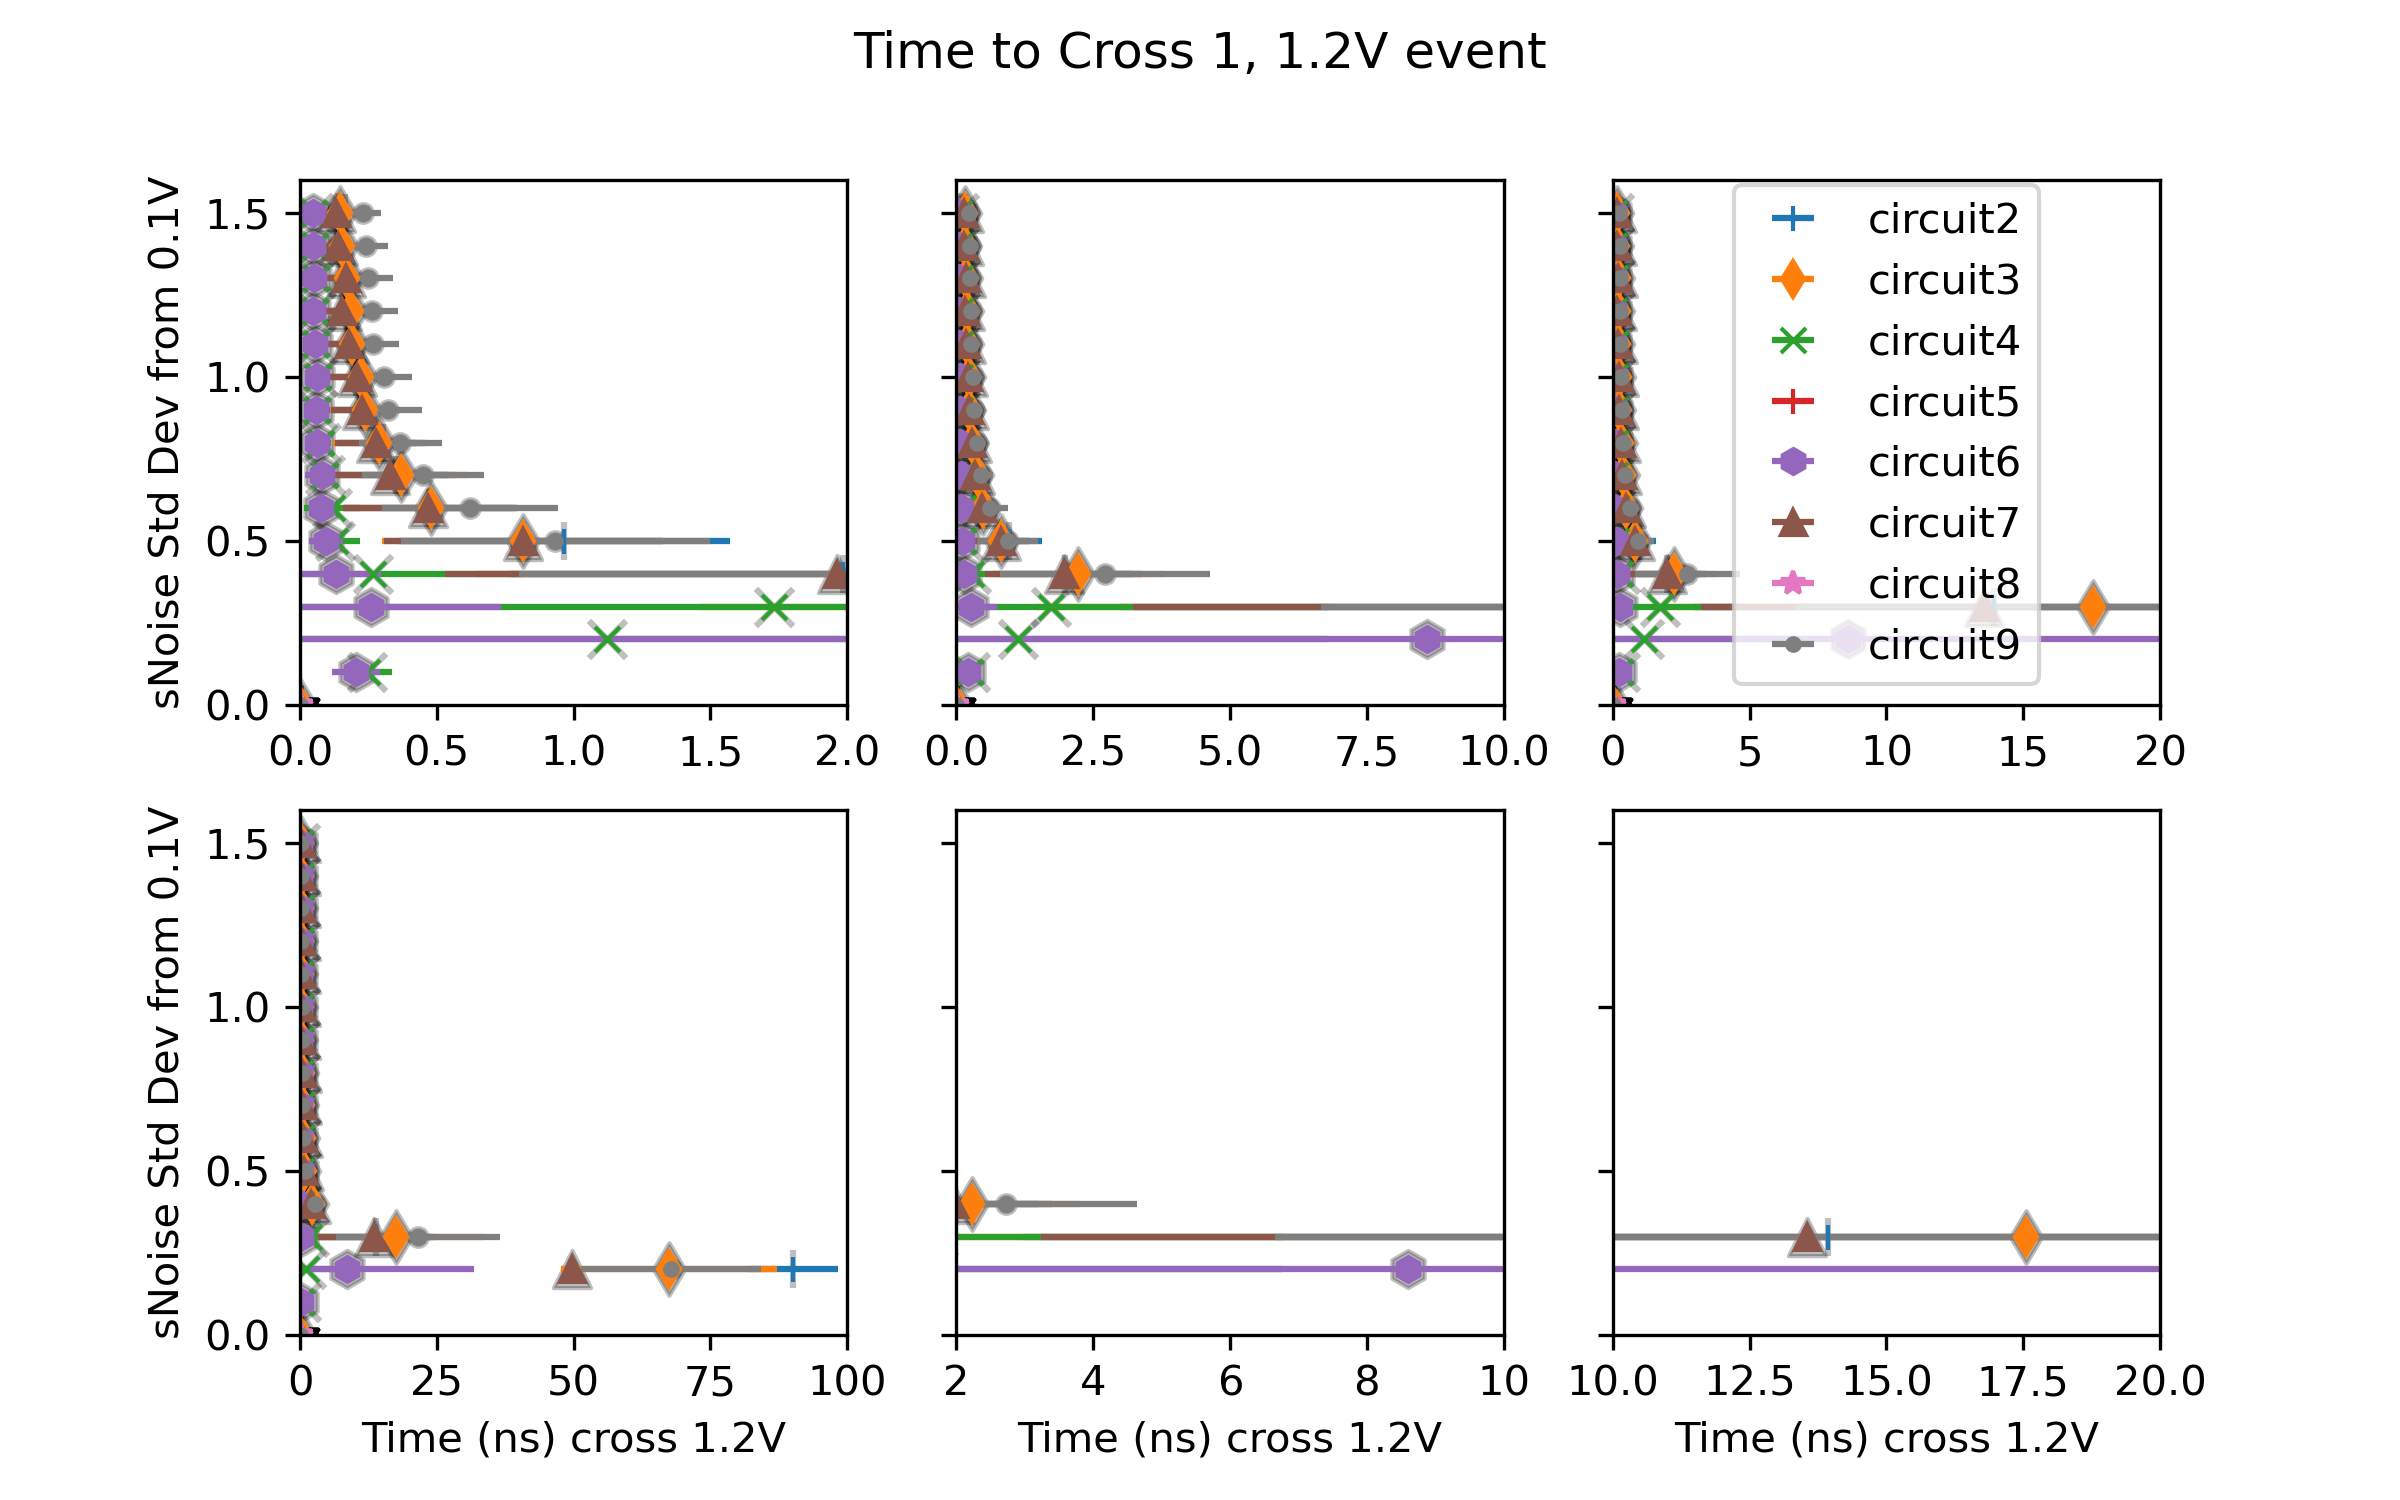
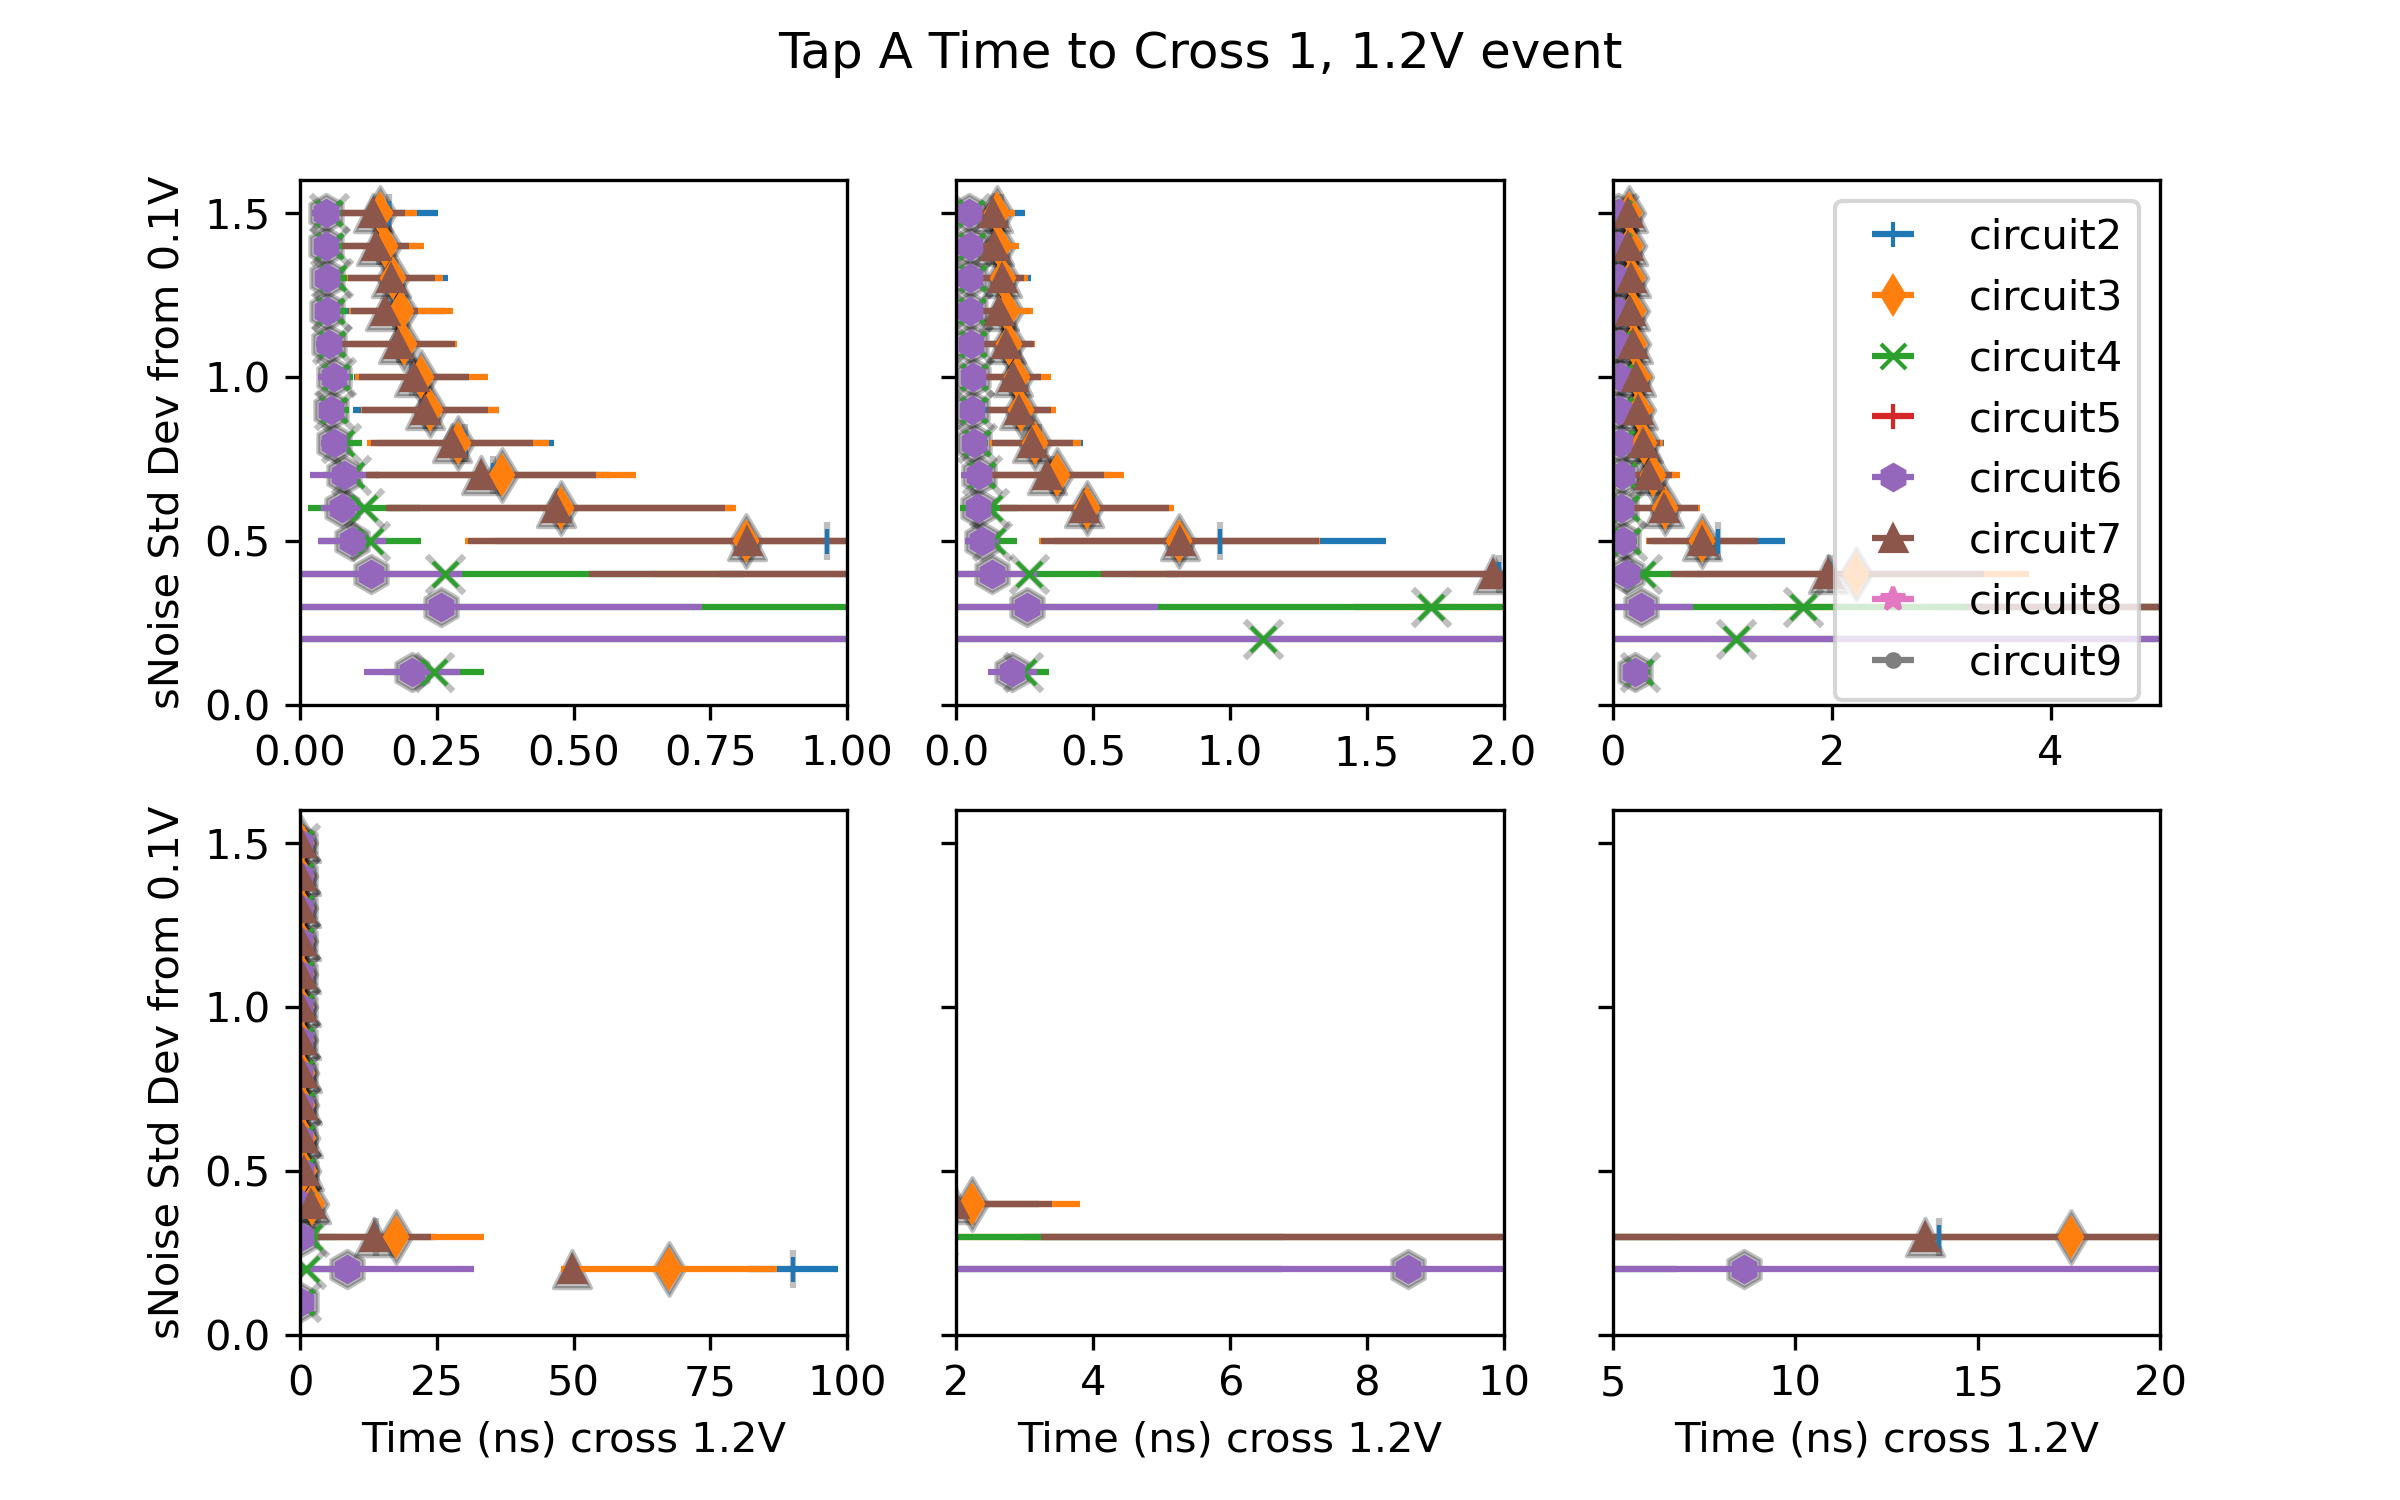
cross 1 difference

diff --git a/exp_mixingTime/read_events_exp_mixing_time_avg_cross_all_circuits.py b/exp_mixingTime/read_events_exp_mixing_time_avg_cross_all_circuits.py
@@ -29,6 +29,12 @@ tap_a_cross1 = []
 tap_a_cross1_std_dev = []
 tap_a_cross1_circuit_label = []
 tap_a_cross1_y_val = []
+
+tap_b_cross1 = []
+tap_b_cross1_std_dev = []
+tap_b_cross1_circuit_label = []
+tap_b_cross1_y_val = []
+
 # Gather data points from results files (format data.txt)
 l_cnt = 0
 for path in paths:
@@ -361,6 +367,11 @@ for path in paths:
 		axs[1].errorbar(tap_b_x_values_avg[i], tap_b_y_values[i], label=crosses[i], xerr=tap_b_x_err_std_dev[i], \
 						   fmt=crossesMarker[i])
 		axs[1].set_xlim(0, 100)
+		if i == 0:
+			tap_b_cross1.append(tap_b_x_values_avg[i])
+			tap_b_cross1_std_dev.append(tap_b_x_err_std_dev[i])
+			tap_b_cross1_y_val.append(tap_b_y_values[i])
+			tap_b_cross1_circuit_label.append(circuit_label)
 		i += 1
 	axs[0].legend()
 	axs[0].set_ylabel("sNoise Std Dev from 0.1V")
@@ -370,27 +381,36 @@ for path in paths:
 	plt.savefig('../exp_mixing_time_'+circuit_label+'_averages_resB.png', dpi=dpi)
 	plt.close()
 	
+#Plot Tap A Cross 1
 fig, axs = plt.subplots(2, 3, figsize=(8, 5), sharex=False, sharey=True)
-
-
 r = 0
 for e in tap_a_cross1:
+	q = 0
+	start_length = len(e)
+	while q < len(e):
+		if (e[q] == tap_a_cross1_y_val[r][q] == tap_a_cross1_std_dev[r][0]):
+			tap_a_cross1[r].pop(q)
+			tap_a_cross1_y_val[r].pop(q)
+			tap_a_cross1_std_dev[r].pop(q)
+			q -= 1
+			start_length -= 1
+		q += 1
 	print(tap_a_cross1_circuit_label[r])
-	print(len(e),e)
+	print(len(e), e)
 	print(len(tap_a_cross1_y_val[r]), tap_a_cross1_y_val[r])
 	print(len(tap_a_cross1_std_dev[r]),tap_a_cross1_std_dev[r])
 	axs[0, 0].scatter(tap_a_cross1[r], tap_a_cross1_y_val[r], c=circuit_color[r], alpha=0.25, marker=circuit_marker[r],s=80)
 	axs[0, 0].errorbar(tap_a_cross1[r], tap_a_cross1_y_val[r], label=tap_a_cross1_circuit_label[r],xerr=tap_a_cross1_std_dev[r], fmt=circuit_marker[r])
-	axs[0, 0].set_xlim(0, 2)
+	axs[0, 0].set_xlim(0, 1)
 	axs[0, 1].scatter(tap_a_cross1[r], tap_a_cross1_y_val[r], c=circuit_color[r], alpha=0.25, marker=circuit_marker[r],s=80)
 	axs[0, 1].errorbar(tap_a_cross1[r], tap_a_cross1_y_val[r], label=tap_a_cross1_circuit_label[r],
 					   xerr=tap_a_cross1_std_dev[r], fmt=circuit_marker[r])
-	axs[0, 1].set_xlim(0, 10)
+	axs[0, 1].set_xlim(0, 2)
 
 	axs[0, 2].scatter(tap_a_cross1[r], tap_a_cross1_y_val[r], c=circuit_color[r], alpha=0.25, marker=circuit_marker[r],s=80)
 	axs[0, 2].errorbar(tap_a_cross1[r], tap_a_cross1_y_val[r], label=tap_a_cross1_circuit_label[r],
 					   xerr=tap_a_cross1_std_dev[r], fmt=circuit_marker[r])
-	axs[0, 2].set_xlim(0, 20)
+	axs[0, 2].set_xlim(0, 5)
 
 	axs[1, 0].scatter(tap_a_cross1[r], tap_a_cross1_y_val[r], c=circuit_color[r], alpha=0.25, marker=circuit_marker[r],s=80)
 	axs[1, 0].errorbar(tap_a_cross1[r], tap_a_cross1_y_val[r], label=tap_a_cross1_circuit_label[r],
@@ -405,7 +425,7 @@ for e in tap_a_cross1:
 	axs[1, 2].scatter(tap_a_cross1[r], tap_a_cross1_y_val[r], c=circuit_color[r], alpha=0.25, marker=circuit_marker[r],s=80)
 	axs[1, 2].errorbar(tap_a_cross1[r], tap_a_cross1_y_val[r], label=tap_a_cross1_circuit_label[r],
 					   xerr=tap_a_cross1_std_dev[r], fmt=circuit_marker[r])
-	axs[1, 2].set_xlim(10, 20)
+	axs[1, 2].set_xlim(5, 20)
 	axs[0, 2].legend()
 	axs[0, 0].set_ylim(0, 1.6)
 	axs[1, 0].set_ylim(0, 1.6)
@@ -415,6 +435,137 @@ for e in tap_a_cross1:
 	axs[1, 1].set_xlabel("Time (ns) cross 1.2V")
 	axs[1, 2].set_xlabel("Time (ns) cross 1.2V")
 	r += 1
-fig.suptitle("Time to Cross 1, 1.2V event")
+fig.suptitle("Tap A Time to Cross 1, 1.2V event")
 plt.savefig('../exp_mixing_time_cross1_tapa_cross1.png', dpi=dpi)
+plt.close()
+
+# Tap B Cross 1
+fig, axs = plt.subplots(2, 3, figsize=(8, 5), sharex=False, sharey=True)
+r = 0
+for e in tap_b_cross1:
+	q = 0
+	start_length = len(e)
+	while q < start_length:
+		if (e[q] == tap_b_cross1_y_val[r][q] == tap_b_cross1_std_dev[r][q]):
+			tap_b_cross1[r].pop(q)
+			tap_b_cross1_y_val[r].pop(q)
+			tap_b_cross1_std_dev[r].pop(q)
+			q -= 1
+			start_length -= 1
+		q += 1
+	print(tap_b_cross1_circuit_label[r])
+	print(len(e), e)
+	print(len(tap_b_cross1_y_val[r]), tap_b_cross1_y_val[r])
+	print(len(tap_b_cross1_std_dev[r]),tap_b_cross1_std_dev[r])
+	axs[0, 0].scatter(tap_b_cross1[r], tap_b_cross1_y_val[r], c=circuit_color[r], alpha=0.25, marker=circuit_marker[r],s=80)
+	axs[0, 0].errorbar(tap_b_cross1[r], tap_b_cross1_y_val[r], label=tap_b_cross1_circuit_label[r],xerr=tap_b_cross1_std_dev[r], fmt=circuit_marker[r])
+	axs[0, 0].set_xlim(0, 1)
+	axs[0, 1].scatter(tap_b_cross1[r], tap_b_cross1_y_val[r], c=circuit_color[r], alpha=0.25, marker=circuit_marker[r],s=80)
+	axs[0, 1].errorbar(tap_b_cross1[r], tap_b_cross1_y_val[r], label=tap_b_cross1_circuit_label[r],
+					   xerr=tap_b_cross1_std_dev[r], fmt=circuit_marker[r])
+	axs[0, 1].set_xlim(0, 2)
+
+	axs[0, 2].scatter(tap_b_cross1[r], tap_b_cross1_y_val[r], c=circuit_color[r], alpha=0.25, marker=circuit_marker[r],s=80)
+	axs[0, 2].errorbar(tap_b_cross1[r], tap_b_cross1_y_val[r], label=tap_b_cross1_circuit_label[r],
+					   xerr=tap_b_cross1_std_dev[r], fmt=circuit_marker[r])
+	axs[0, 2].set_xlim(0, 5)
+
+	axs[1, 0].scatter(tap_b_cross1[r], tap_b_cross1_y_val[r], c=circuit_color[r], alpha=0.25, marker=circuit_marker[r],s=80)
+	axs[1, 0].errorbar(tap_b_cross1[r], tap_b_cross1_y_val[r], label=tap_b_cross1_circuit_label[r],
+					   xerr=tap_b_cross1_std_dev[r], fmt=circuit_marker[r])
+	axs[1, 0].set_xlim(0, 100)
+
+	axs[1, 1].scatter(tap_b_cross1[r], tap_b_cross1_y_val[r], c=circuit_color[r], alpha=0.25, marker=circuit_marker[r],s=80)
+	axs[1, 1].errorbar(tap_b_cross1[r], tap_b_cross1_y_val[r], label=tap_b_cross1_circuit_label[r],
+					   xerr=tap_b_cross1_std_dev[r], fmt=circuit_marker[r])
+	axs[1, 1].set_xlim(2, 10)
+
+	axs[1, 2].scatter(tap_b_cross1[r], tap_b_cross1_y_val[r], c=circuit_color[r], alpha=0.25, marker=circuit_marker[r],s=80)
+	axs[1, 2].errorbar(tap_b_cross1[r], tap_b_cross1_y_val[r], label=tap_b_cross1_circuit_label[r],
+					   xerr=tap_b_cross1_std_dev[r], fmt=circuit_marker[r])
+	axs[1, 2].set_xlim(5, 20)
+	axs[0, 2].legend()
+	axs[0, 0].set_ylim(0, 1.6)
+	axs[1, 0].set_ylim(0, 1.6)
+	axs[0, 0].set_ylabel("sNoise Std Dev from 0.1V")
+	axs[1, 0].set_ylabel("sNoise Std Dev from 0.1V")
+	axs[1, 0].set_xlabel("Time (ns) cross 1.2V")
+	axs[1, 1].set_xlabel("Time (ns) cross 1.2V")
+	axs[1, 2].set_xlabel("Time (ns) cross 1.2V")
+	r += 1
+fig.suptitle("Tap B Time to Cross 1, 1.2V event")
+plt.savefig('../exp_mixing_time_cross1_tapb_cross1.png', dpi=dpi)
+plt.close()
+
+print("DIFFERENCE BETWEEN TAP A AND TAP B, CROSS 1")
+r = 0
+z = -1
+difference_tap_a_C1_tap_b_C1 = []
+difference_tap_a_C1_tap_b_C1_y = []
+difference_tap_a_C1_tap_b_C1_label = []
+difference_tap_a_C1_tap_b_C1_marker = []
+while r < len(paths):
+	circuit_label = paths[r].strip("/")
+	maxval = max(len(tap_a_cross1_y_val[r]),len(tap_b_cross1_y_val[r]))
+	if (maxval > 0):
+		difference_tap_a_C1_tap_b_C1_label.append(circuit_label)
+		difference_tap_a_C1_tap_b_C1_marker.append(circuit_marker[r])
+		difference_tap_a_C1_tap_b_C1.append([])
+		difference_tap_a_C1_tap_b_C1_y.append([])
+		z += 1
+	print("circuit count", r)
+	print(len(tap_a_cross1_y_val[r]))
+	print(len(tap_b_cross1_y_val[r]))
+	ra = 0
+	rb = 0
+	q = 0
+	while q < maxval:
+		print(ra,rb)
+		print(tap_a_cross1_y_val[r][ra])
+		print(tap_b_cross1_y_val[r][rb])
+		intA = int(tap_a_cross1_y_val[r][ra]*10)
+		intB = int(tap_b_cross1_y_val[r][rb]*10)
+		print(intA, intB)
+		if(intA == intB):
+			diff = abs(tap_a_cross1[r][ra]-tap_b_cross1[r][rb])
+			difference_tap_a_C1_tap_b_C1[z].append(diff)
+			difference_tap_a_C1_tap_b_C1_y[z].append(tap_a_cross1_y_val[r][ra])
+			print(tap_a_cross1_y_val[r][ra])
+			print(tap_a_cross1_std_dev[r][ra])
+			ra += 1
+			rb += 1
+		elif (tap_a_cross1_y_val[r][ra] < tap_b_cross1_y_val[r][rb]):
+			ra += 1
+		elif (tap_a_cross1_y_val[r][ra] > tap_b_cross1_y_val[r][rb]):
+			rb+= 1
+		q += 1
+	r += 1
+	
+r = 0
+print('difference Tap A to Tap B')
+# 'difference Tap A to Tap B cross 1
+fig, axs = plt.subplots(1, 3, figsize=(10, 3.5), sharex=False, sharey=True)
+i = 0
+while i < len(difference_tap_a_C1_tap_b_C1_label):
+	axs[0].set_ylim(0, 1.6)
+	axs[0].scatter(difference_tap_a_C1_tap_b_C1[i], difference_tap_a_C1_tap_b_C1_y[i],
+				   label=difference_tap_a_C1_tap_b_C1_label[i], marker = difference_tap_a_C1_tap_b_C1_marker[i], 
+			alpha=0.5, s=80)
+	axs[0].set_xlim(0, 0.2)
+	axs[1].scatter(difference_tap_a_C1_tap_b_C1[i], difference_tap_a_C1_tap_b_C1_y[i],
+				   label=difference_tap_a_C1_tap_b_C1_label[i],marker = difference_tap_a_C1_tap_b_C1_marker[i], alpha=0.5, s=80)
+	axs[1].set_xlim(0, 0.8)
+	axs[2].scatter(difference_tap_a_C1_tap_b_C1[i], difference_tap_a_C1_tap_b_C1_y[i],
+				   label=difference_tap_a_C1_tap_b_C1_label[i],marker = difference_tap_a_C1_tap_b_C1_marker[i], alpha=0.5, s=80)
+	axs[2].set_xlim(0, 100)
+	
+	i += 1
+axs[2].legend()
+axs[0].set_ylabel("sNoise Std Dev from 0.1V")
+axs[0].set_xlabel("Time (ns) 1st cross 1.2V")
+axs[1].set_xlabel("Time (ns) 1st cross 1.2V")
+axs[2].set_xlabel("Time (ns) 1st cross 1.2V")
+fig.suptitle('First Event Timing Difference')
+plt.tight_layout()
+plt.savefig('../exp_mixing_time_diff_TapA_TapB_cross1.png', dpi=dpi)
 plt.close()
